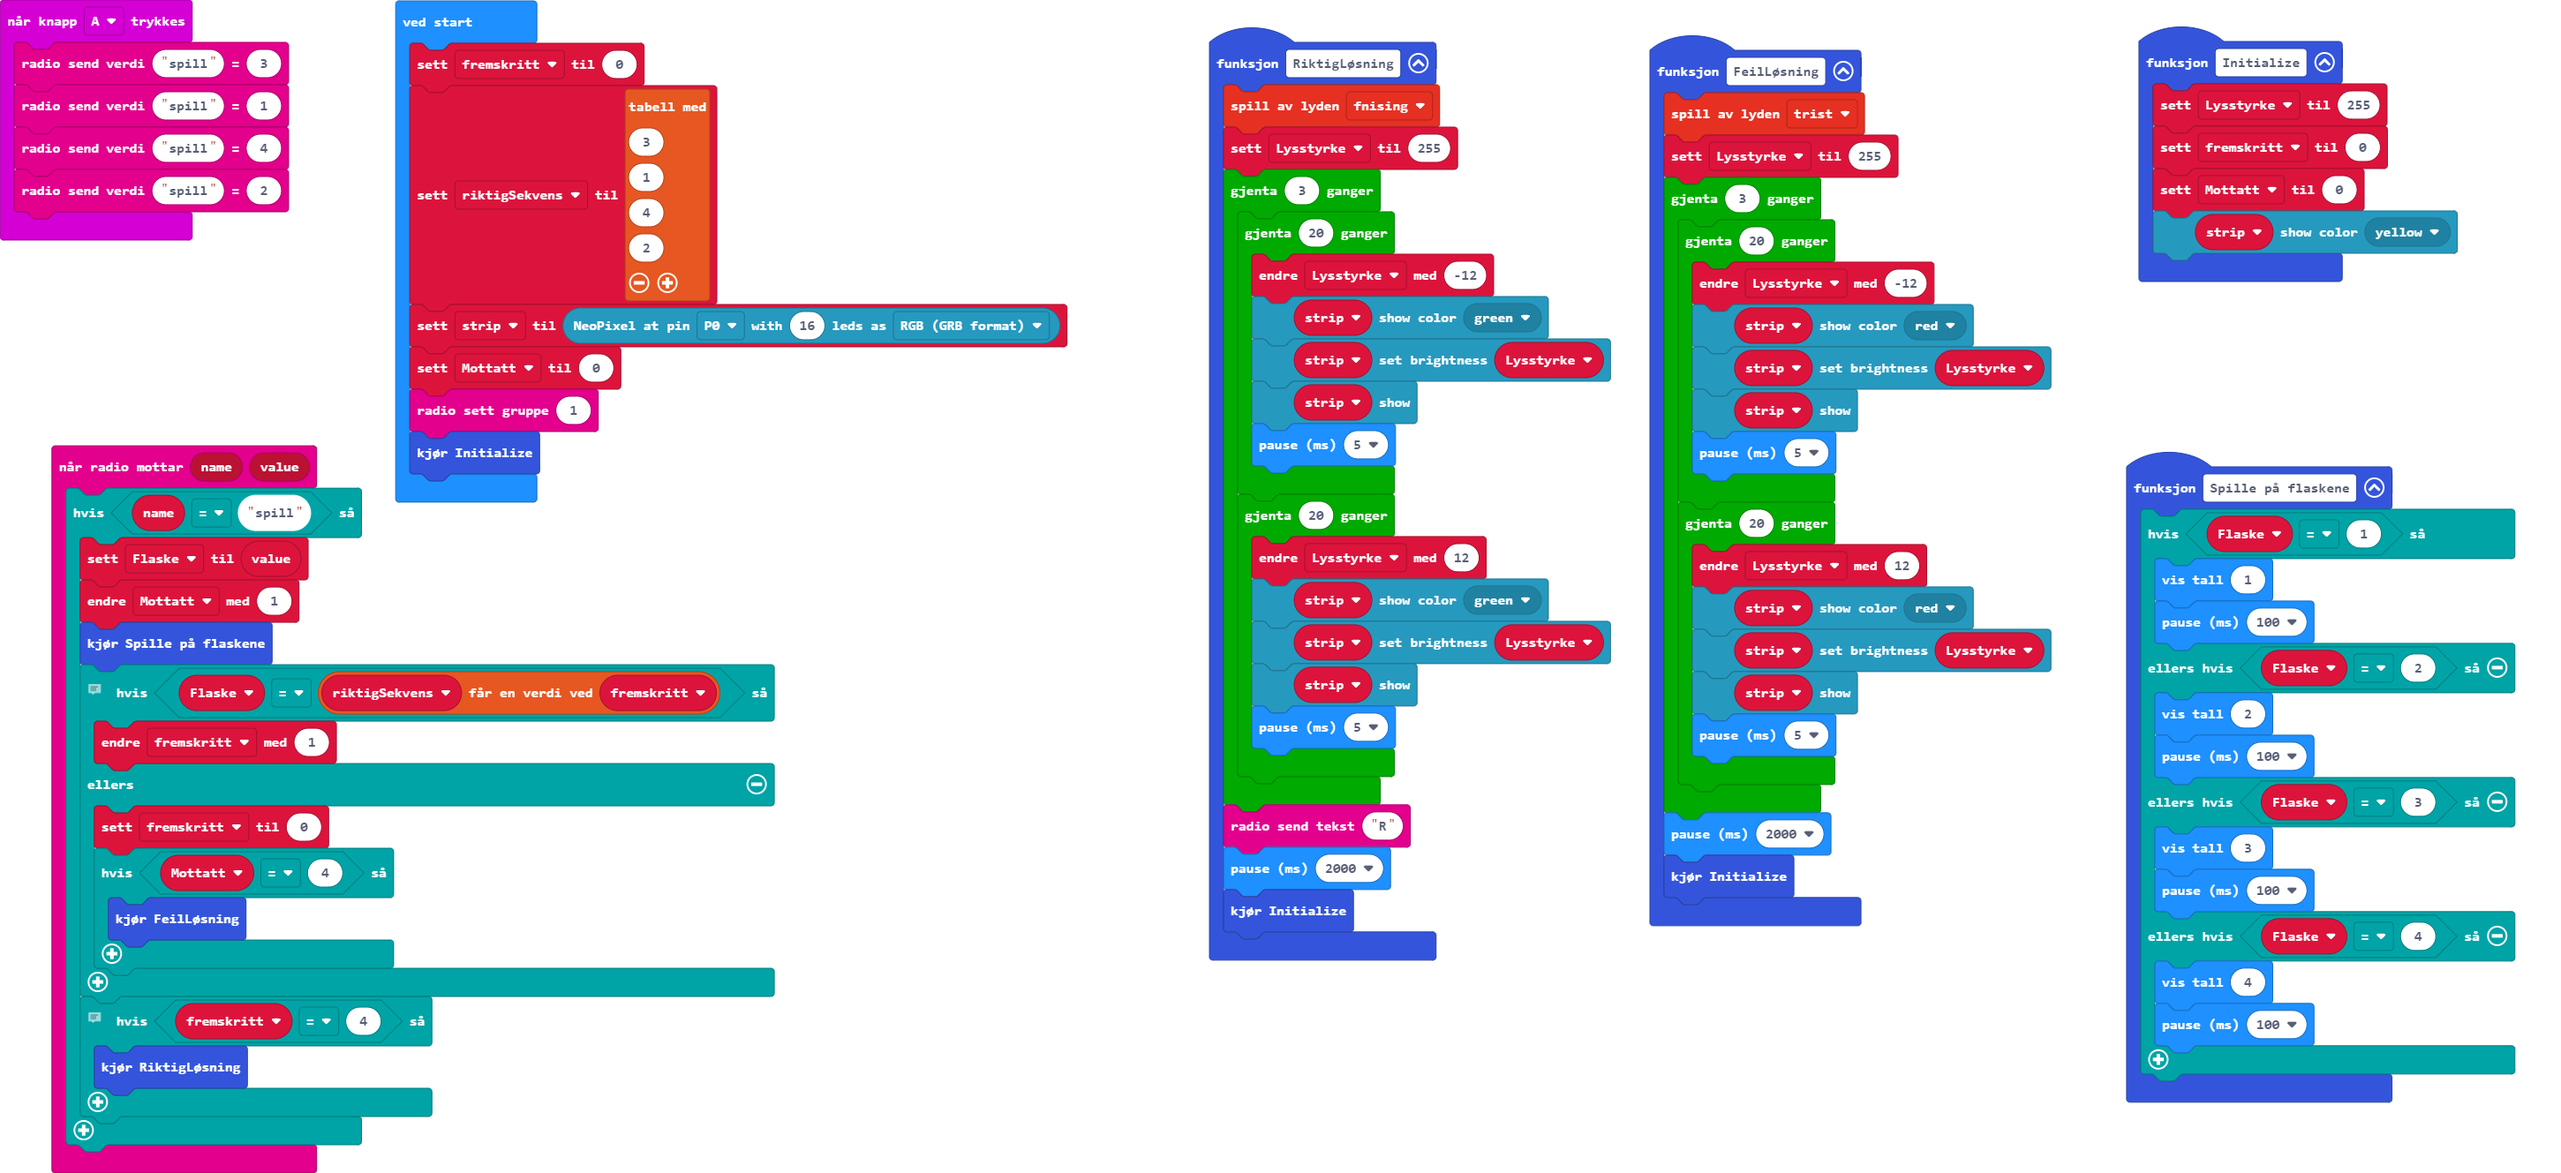
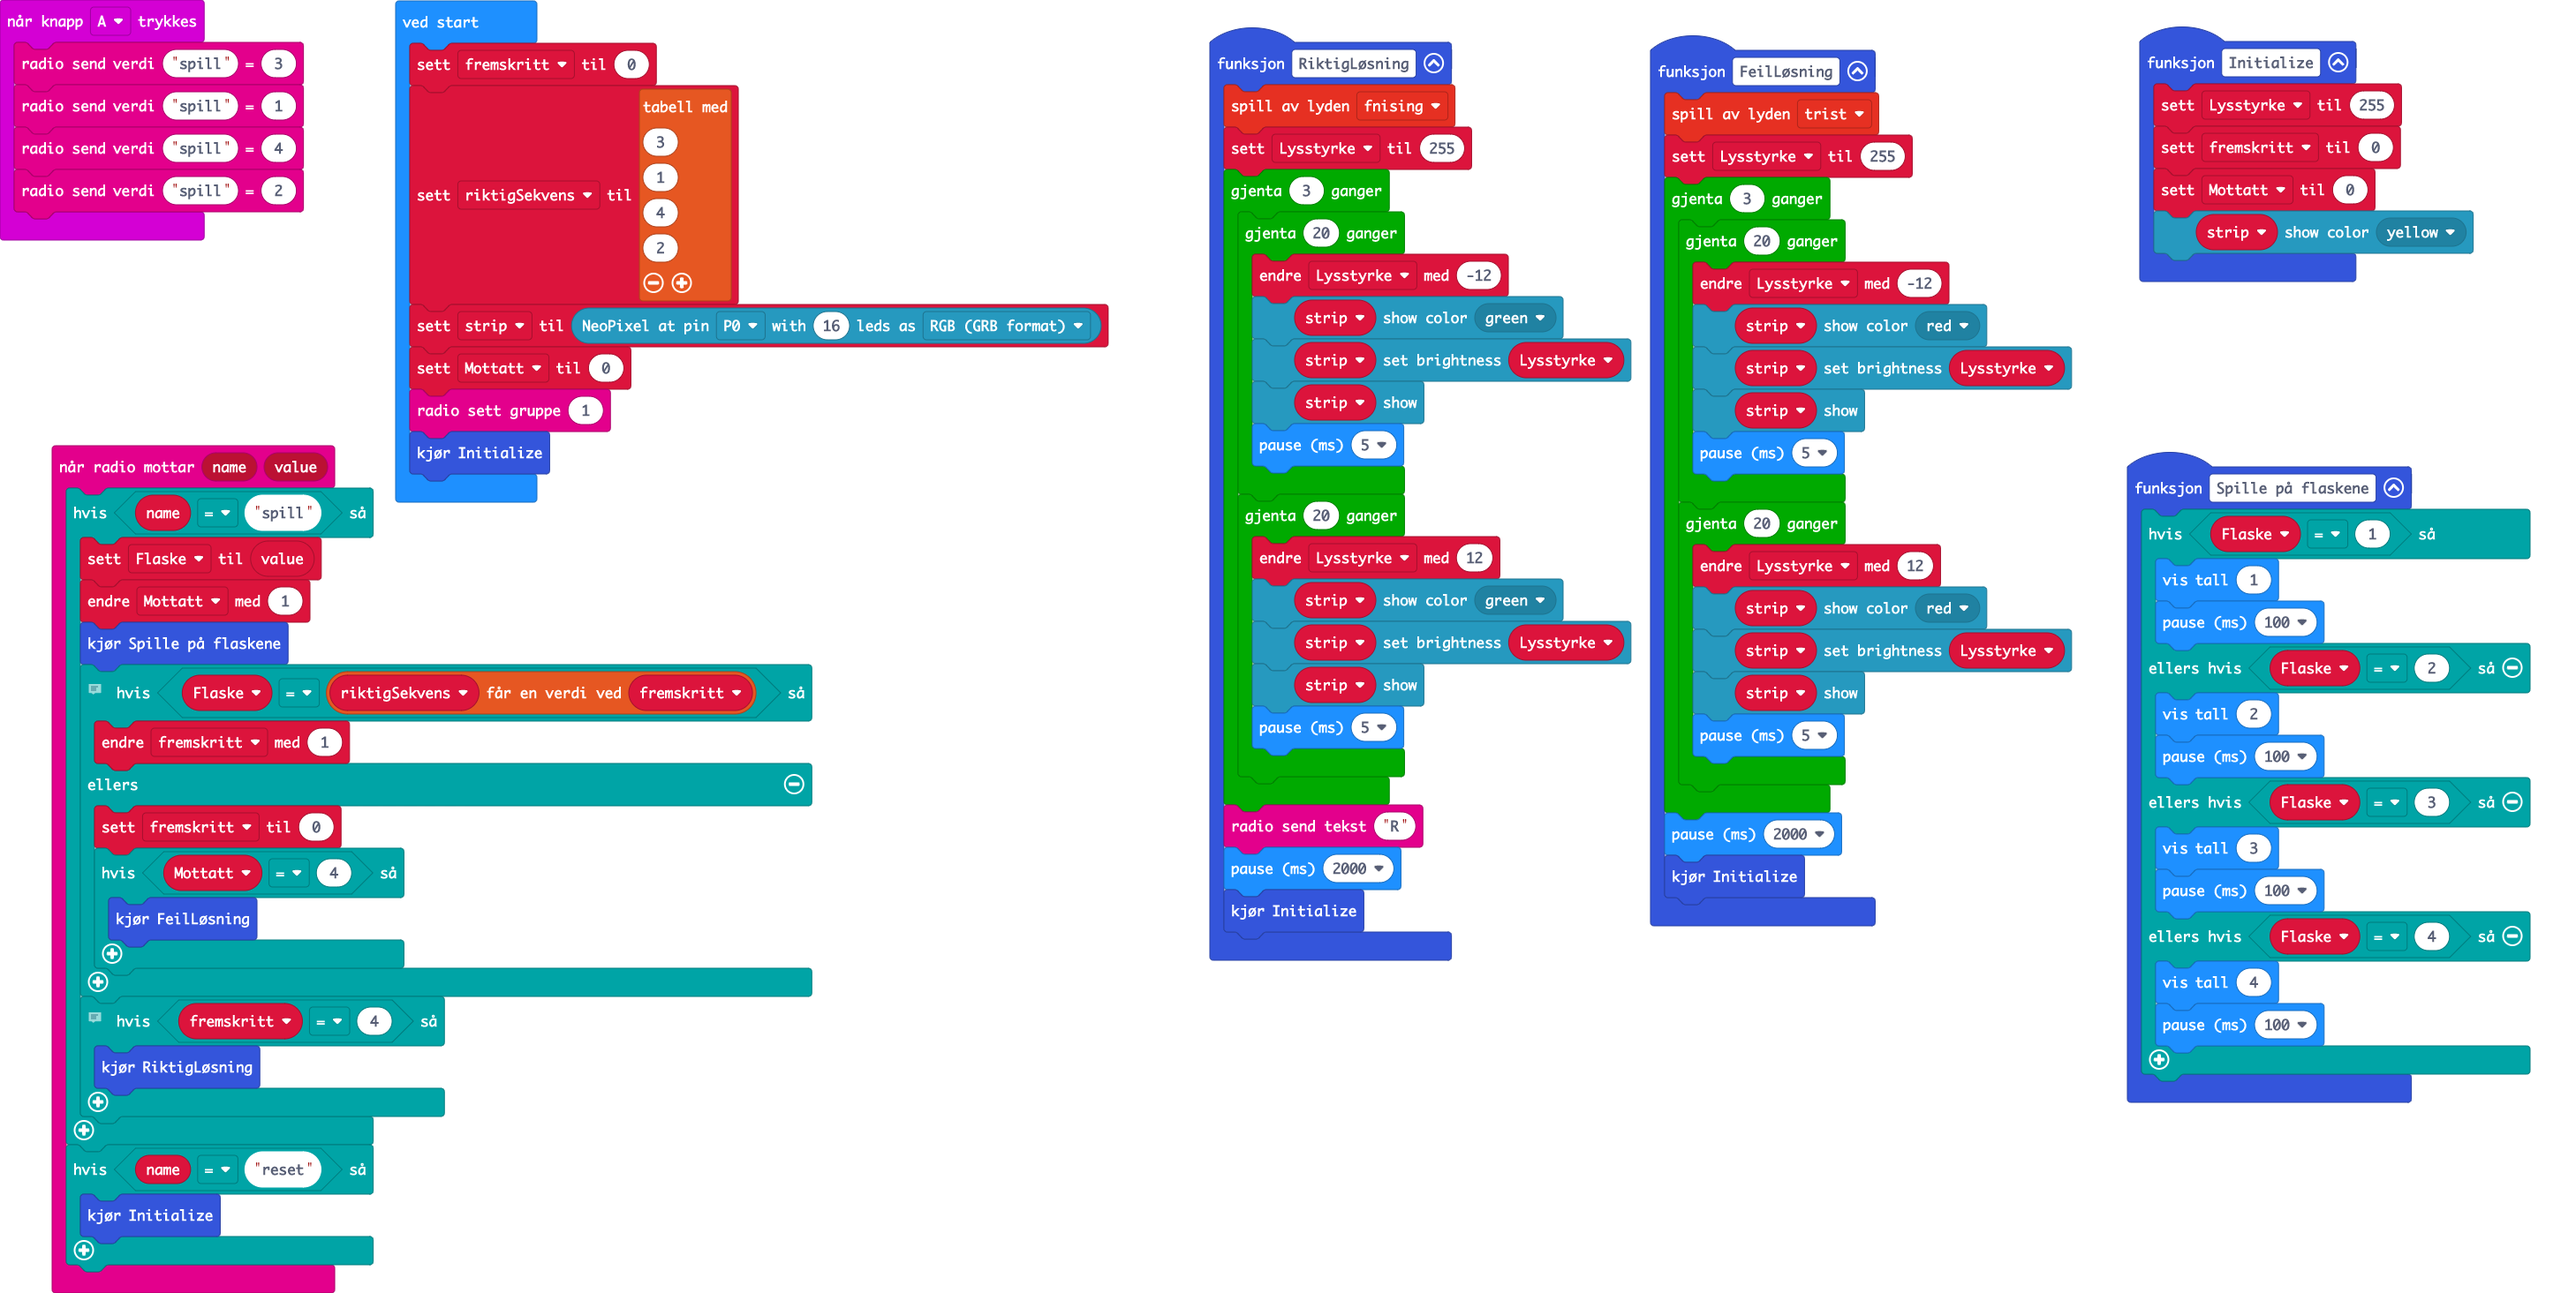
Oppdater main.blocks, main.ts

diff --git a/main.ts b/main.ts
@@ -83,6 +83,9 @@ radio.onReceivedValue(function (name, value) {
             RiktigLøsning()
         }
     }
+    if (name == "reset") {
+        Initialize()
+    }
 })
 function Initialize () {
     Lysstyrke = 255
